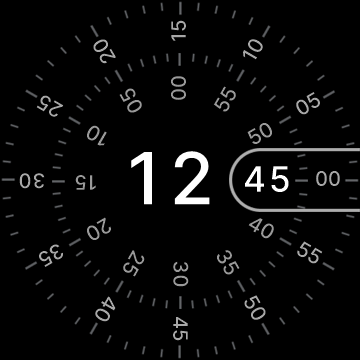
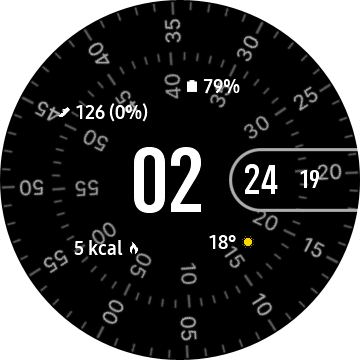
feat(concentric): Eliminar barras azules y agregar numeros y porcentaje limpios

diff --git a/README.md b/README.md
@@ -66,7 +66,7 @@ Diseño ultralimpio sobre fondo negro puro AMOLED (`#000000`) con píxeles físi
   - Anillo exterior de segundos con barrido fluido continuo a 60 fps (`second.millisecond`).
   - Anillo interior de minutos con rotación suave.
   - Cápsula central con hora digital en gran tamaño (92 px).
-  - 4 complicaciones en los cuadrantes: batería, pasos, calorías activas y clima.
+  - 4 complicaciones limpias sin barras perimetrales intrusivas: batería con porcentaje explícito (`XX%`), pasos con número exacto y porcentaje (`XXXX (XX%)`), calorías activas en kcal y clima.
 - **AOD (Always-On Display):** Modo minimalista con únicamente los números centrales de la hora y minutos (sin ruedas ni cápsula).
 
 ---
